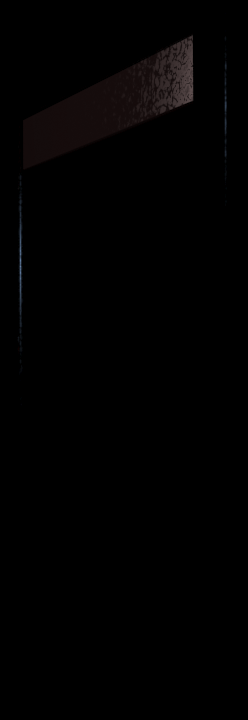
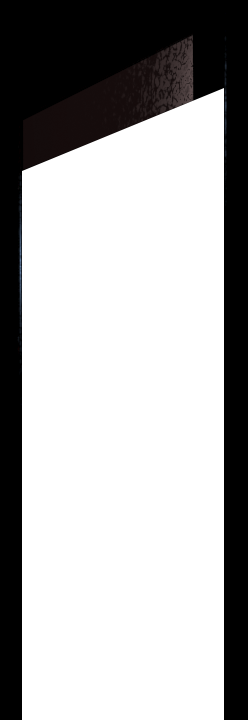
Moving files and patch for positioning

diff --git a/stylesheets/main.css b/stylesheets/main.css
@@ -139,8 +139,15 @@ h1 {
 }
 
 .left-door {
-    top: -14%;
+    top: 0%;
+    left: 5%;
     position: absolute;
+    height: 100%;
+}
+
+.left-door img {
+    width: 68%;
+    height: 100%;
 }
 
 .left-door-opened {
@@ -162,9 +169,15 @@ h1 {
 }
 
 .right-door {
-    top: -14%;
-    right: 0;
+    top: 0%;
+    right: 5%;
     position: absolute;
+    height: 100%;
+}
+
+.right-door img {
+    width: 68%;
+    height: 100%;
 }
 
 .right-door-opened {
